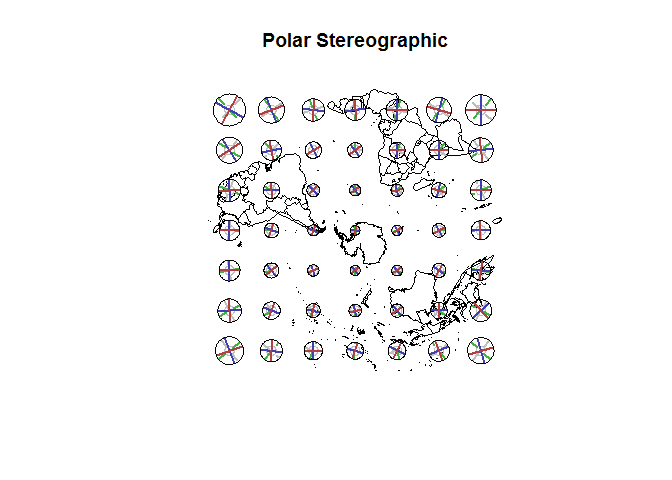
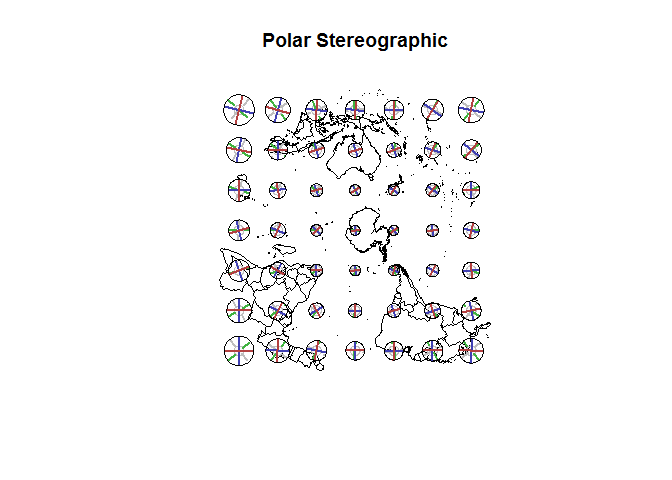
new example for Oblique Mercator

Changed region(s): [[0.3125, 0.1875, 0.75, 0.7812]]

diff --git a/README.md b/README.md
@@ -7,7 +7,6 @@ NOTE: this package is in early development and will change a lot, this is just a
 TODO
 ----
 
--   colours need really serious attention for general distribution
 -   sort out the interface for inputting data, projections
 -   semi-automate the scaling for the plot
 
@@ -19,7 +18,6 @@ Can be installed with
 ``` r
 devtools::install_github("mdsumner/tissot")
 ```
-
 
 Minimal example
 ===============
@@ -38,7 +36,6 @@ library(tissot)
  r <- tissot(130, 54, prj,
              proj.in=CRS("+init=epsg:4267"),
              proj.out=CRS("+init=esri:54030"))
-#> Note: no visible binding for global variable '.Data'
 
  i <- indicatrix(r, scale=10^4, n=71)
  plot(i$outline, type="n", asp=1, xlab="Easting", ylab="Northing")
@@ -63,7 +60,6 @@ Polar example
  library(tissot)
 library(rgdal)
 library(maptools)
-#> Checking rgeos availability: TRUE
 data(wrld_simpl)
 prj <- function(z, proj.in, proj.out) {
   z.pt <- SpatialPoints(coords=matrix(z, ncol=2), proj4string=proj.in)
@@ -72,7 +68,7 @@ prj <- function(z, proj.in, proj.out) {
 }
 library(raster)
 
-buildandplot <- function(data, title = "") {
+buildandplot <- function(data, title = "", scale = 5e5) {
   ## grid of points
   gr <- rasterToPoints(raster(data, nrow = 7, ncol = 7), spatial = TRUE)
   grll <- spTransform(gr, CRS(projection(wrld_simpl)))
@@ -81,7 +77,7 @@ buildandplot <- function(data, title = "") {
                                                proj.in = CRS(projection(wrld_simpl)), proj.out = projection(data))
 plot(data, main = title)
 for (j in seq_along(tis)) {
-  i <- indicatrix(tis[[j]], scale = 5e5, n = 71)
+  i <- indicatrix(tis[[j]], scale = scale, n = 71)
   polygon(i$base, col=rgb(0, 0, 0, .025), border="Gray")
   lines(i$d.lambda, lwd=2, col="Gray", lty=2)
   lines(i$d.phi, lwd=2, col=rgb(.25, .7, .25), lty=2)
@@ -93,12 +89,14 @@ for (j in seq_along(tis)) {
 invisible(NULL)
 }
 ## choose a projection
-ptarget1 <- "+proj=stere +lat_ts-71 +lat_0=-90 +ellps=WGS84"
+ptarget1 <- "+proj=stere +lon_0=147 +lat_ts-71 +lat_0=-90 +ellps=WGS84"
 w1 <- spTransform(subset(wrld_simpl, coordinates(wrld_simpl)[,2] < 10), CRS(ptarget1))
-#> Note: no visible binding for global variable 'plotOrder'
 
-ptarget2 <- "+proj=laea +lat_0=-90 +ellps=WGS84"
+ptarget2 <- "+proj=laea +lon_0=147 +lat_0=-90 +ellps=WGS84"
 w2 <- spTransform(subset(wrld_simpl, coordinates(wrld_simpl)[,2] < 10), CRS(ptarget2))
+
+ptarget3 <- "+proj=omerc +lonc=147 +gamma=9 +alpha=9 +lat_0=-80 +ellps=WGS84"
+w3 <- spTransform(subset(wrld_simpl, coordinates(wrld_simpl)[,2] < -12), CRS(ptarget3), scale = 3e5)
 
 buildandplot(w1, "Polar Stereographic")
 ```
@@ -110,3 +108,9 @@ buildandplot(w2, "Lambert Azimuthal Equal Area")
 ```
 
 ![](readmefigs/README-unnamed-chunk-4-2.png)
+
+``` r
+buildandplot(w3, "Oblique Mercator")
+```
+
+![](readmefigs/README-unnamed-chunk-4-3.png)
